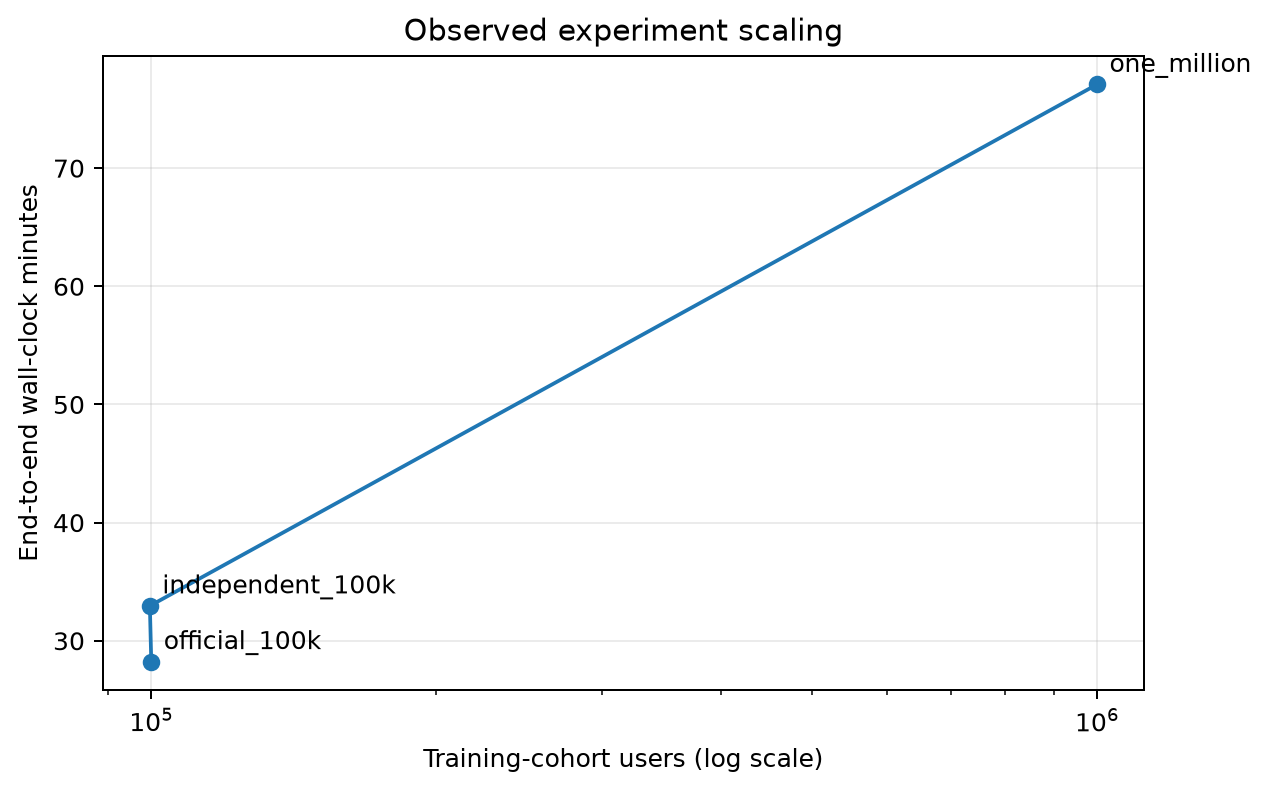
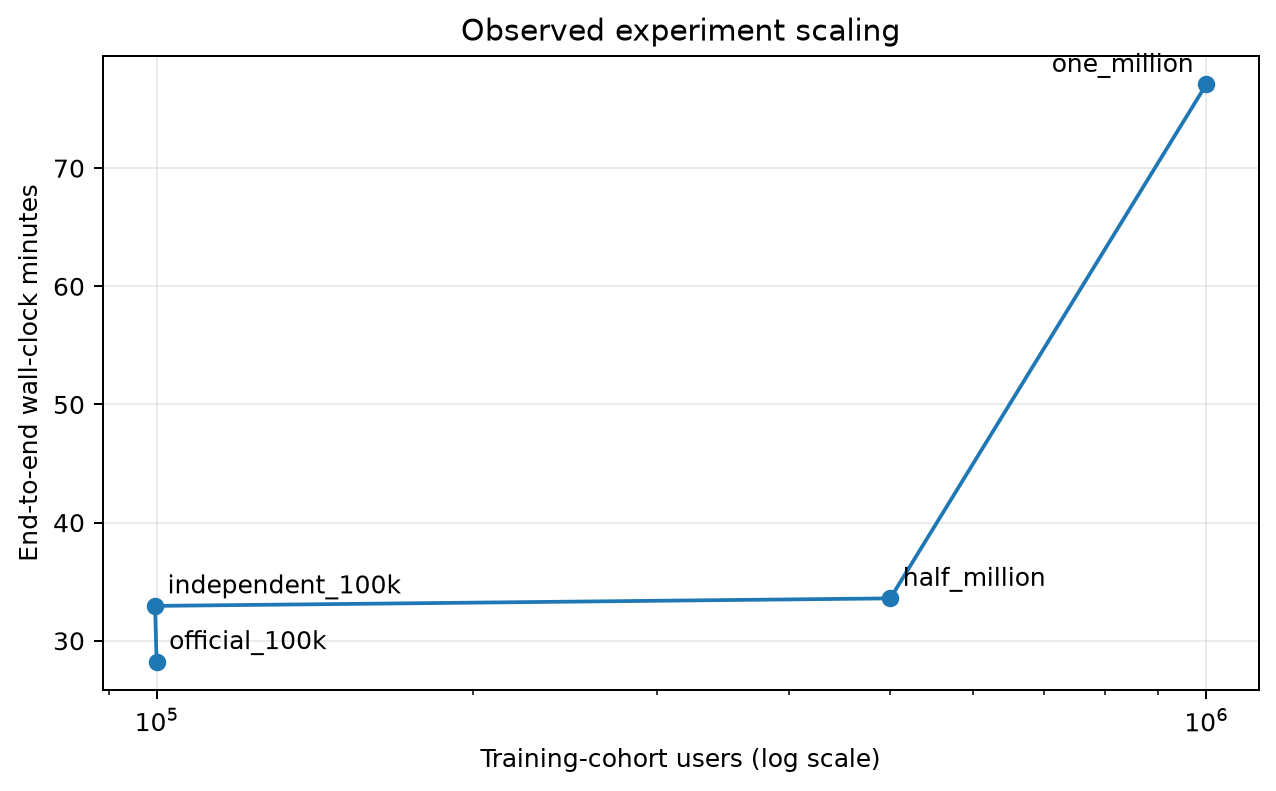
Add 500k scalability experiment

diff --git a/src/twitch_recs/assignment_analysis.py b/src/twitch_recs/assignment_analysis.py
@@ -481,6 +481,12 @@ def run_validation_sample_stability(frame: pd.DataFrame, config: dict,
 def _log_runtime_minutes(path: Path) -> float | None:
     if not path.exists():
         return None
+    for line in reversed(path.read_text(errors="replace").splitlines()):
+        if line.startswith("real "):
+            try:
+                return float(line.split()[1]) / 60
+            except (IndexError, ValueError):
+                break
     try:
         values = subprocess.check_output(
             ["stat", "-c", "%W %Y", str(path)], text=True
@@ -497,6 +503,8 @@ def scaling_table(root: Path, assignment_output: Path) -> pd.DataFrame:
          root / "outputs/logs/full_run.log"),
         ("independent_100k", root / "outputs_full/dataset_summary.json",
          root / "outputs_full/logs/full_cohort_run.log"),
+        ("half_million", root / "outputs_500k/dataset_summary.json",
+         root / "outputs_500k/run.log"),
         ("one_million", root / "outputs_million/dataset_summary.json",
          root / "outputs_million/run.log"),
     ]
@@ -509,7 +517,12 @@ def scaling_table(root: Path, assignment_output: Path) -> pd.DataFrame:
             "interactions": int(summary["interactions"]),
             "channels": int(summary["channels"]),
             "wall_clock_minutes": _log_runtime_minutes(log_path),
-            "runtime_source": "filesystem birth-to-final-write interval of run log",
+            "runtime_source": (
+                "GNU time real seconds recorded in run log"
+                if any(line.startswith("real ") for line in
+                       log_path.read_text(errors="replace").splitlines())
+                else "filesystem birth-to-final-write interval of run log"
+            ),
         })
     result = pd.DataFrame(rows)
     result.to_csv(assignment_output / "tables" / "scaling.csv", index=False)
@@ -592,14 +605,55 @@ def create_assignment_figures(primary_output: Path, assignment_output: Path,
     plt.figure(figsize=(7.2, 4.5))
     plt.plot(scaling["users"], scaling["wall_clock_minutes"], marker="o")
     for row in scaling.itertuples():
+        rightmost = row.users == scaling["users"].max()
         plt.annotate(row.experiment, (row.users, row.wall_clock_minutes),
-                     xytext=(5, 5), textcoords="offset points")
+                     xytext=(-5 if rightmost else 5, 5), textcoords="offset points",
+                     ha="right" if rightmost else "left")
     plt.xscale("log")
     plt.xlabel("Training-cohort users (log scale)")
     plt.ylabel("End-to-end wall-clock minutes")
     plt.title("Observed experiment scaling")
     plt.grid(alpha=0.25)
     _save_figure(figure_dir / "scaling.png")
+
+    root = assignment_output.parent.parent
+    scale_runs = [
+        ("100k", 99_660, root / "outputs_full/tables/test_results.csv"),
+        ("500k", 500_000, root / "outputs_500k/tables/test_results.csv"),
+        ("1m", 1_000_000, root / "outputs_million/tables/test_results.csv"),
+    ]
+    model_names = {
+        "hybrid_a0.75": "Hybrid",
+        "item_knn": "ItemKNN",
+        "bpr": "BPR",
+        "recent_popularity": "Recent popularity",
+        "popularity": "Popularity",
+    }
+    accuracy_rows = []
+    for scale_label, users, result_path in scale_runs:
+        frame = pd.read_csv(result_path)
+        for model, display_name in model_names.items():
+            value = frame.loc[frame["model"] == model, "ndcg_at_10"]
+            accuracy_rows.append({
+                "scale": scale_label,
+                "users": users,
+                "model": display_name,
+                "ndcg_at_10": float(value.iloc[0]),
+            })
+    accuracy = pd.DataFrame(accuracy_rows)
+    accuracy.to_csv(assignment_output / "tables" / "scalability_ndcg.csv", index=False)
+    plt.figure(figsize=(7.6, 4.8))
+    for model, group in accuracy.groupby("model", sort=False):
+        group = group.sort_values("users")
+        plt.plot(group["users"], group["ndcg_at_10"], marker="o", label=model)
+    plt.xscale("log")
+    plt.xticks([100_000, 500_000, 1_000_000], ["100k", "500k", "1m"])
+    plt.xlabel("Training-cohort users (log scale)")
+    plt.ylabel("Test NDCG@10")
+    plt.title("Model ranking remains stable across three cohort scales")
+    plt.legend(bbox_to_anchor=(1.02, 1), loc="upper left")
+    plt.grid(alpha=0.25)
+    _save_figure(figure_dir / "scalability_ndcg.png")
 
     period_path = assignment_output / "tables" / "period_level_results.csv"
     if period_path.exists():

diff --git a/reports/MILLION_USER_COMPARISON.md b/reports/MILLION_USER_COMPARISON.md
@@ -1,25 +1,27 @@
-# 100k vs. One-Million-User Experiment
+# 100k vs. 500k vs. One-Million-User Experiment
 
-| Model | 100k Recall@10 | 1m Recall@10 | 100k NDCG@10 | 1m NDCG@10 |
-|---|---:|---:|---:|---:|
-| Hybrid alpha=0.75 | 0.224644 | 0.221204 | 0.132178 | 0.131703 |
-| ItemKNN | 0.215126 | 0.218741 | 0.126534 | 0.130398 |
-| BPR | 0.093488 | 0.081065 | 0.053731 | 0.043017 |
-| Recent popularity | 0.061265 | 0.056563 | 0.037562 | 0.035291 |
-| Popularity | 0.060668 | 0.057247 | 0.037277 | 0.035717 |
+| Model | 100k Recall@10 | 500k Recall@10 | 1m Recall@10 | 100k NDCG@10 | 500k NDCG@10 | 1m NDCG@10 |
+|---|---:|---:|---:|---:|---:|---:|
+| Hybrid alpha=0.75 | 0.224644 | 0.221675 | 0.221204 | 0.132178 | 0.128898 | 0.131703 |
+| ItemKNN | 0.215126 | 0.217265 | 0.218741 | 0.126534 | 0.126900 | 0.130398 |
+| BPR | 0.093488 | 0.080066 | 0.081065 | 0.053731 | 0.041878 | 0.043017 |
+| Recent popularity | 0.061265 | 0.056566 | 0.056563 | 0.037562 | 0.034819 | 0.035291 |
+| Popularity | 0.060668 | 0.056558 | 0.057247 | 0.037277 | 0.034773 | 0.035717 |
 
-The one-million-user cohort contains exactly 1,000,000 users and 30,585,070
-interactions. It uses every selected user for training, with a fixed-seed evaluation
-sample of 1,931 validation and 4,895 test users after eligibility filtering.
+The 500k cohort contains 15,271,133 interactions and 355,257 channels; its fixed-seed
+evaluation contains 1,904 validation and 4,870 test users after eligibility filtering.
+Its full model run completed in 33.59 wall-clock minutes. The one-million-user cohort
+contains 30,585,070 interactions and uses 1,931 validation and 4,895 test users.
 
-The ranking is unchanged: Hybrid > ItemKNN > BPR > popularity baselines. Hybrid
-NDCG is nearly unchanged (-0.36% relative), and ItemKNN improves by 3.05% relative.
-BPR declines by 19.94% relative on the sampled test set.
+The ranking is unchanged at all three scales: Hybrid > ItemKNN > BPR > popularity
+baselines. Hybrid NDCG stays within 0.1289--0.1322, while ItemKNN rises slightly by
+1m. BPR is lower at both larger scales. The 500k validation search selects 32 factors;
+the 100k and 1m searches select 64, so hyperparameters are not assumed constant.
 
-This is a robustness comparison, not a controlled learning curve. The 100k results
-use all 52,794 eligible test users from a different cohort; the one-million results
-use a deterministic sample. Cohort, candidate-catalog, and evaluation-sample changes
-are therefore confounded with training size.
+This is scalability and robustness evidence, not a controlled learning curve. The
+100k results use all 52,794 eligible test users from a different cohort; the 500k and
+one-million results use deterministic samples. Cohort, candidate catalog, and
+evaluation sample therefore change together with training size.
 
 See `MILLION_USER_REPORT.md` for the full protocol, diversity metrics, candidate
 coverage, limitations, and reproducibility commands.

diff --git a/reports/ASSIGNMENT_EXPERIMENTS.md b/reports/ASSIGNMENT_EXPERIMENTS.md
@@ -184,12 +184,16 @@ catalog.
 |---|---:|---:|---:|---:|
 | Official 100k | 100,000 | 3,051,733 | 162,625 | 28.23 |
 | Independent approximately-100k | 99,660 | 3,034,146 | 161,021 | 32.95 |
+| Half million | 500,000 | 15,271,133 | 355,257 | 33.59 |
 | One million | 1,000,000 | 30,585,070 | 464,657 | 77.08 |
 
-Times are filesystem birth-to-final-write intervals for the saved run logs, not a
-controlled hardware benchmark. The one-million run uses capped validation/test ranking
-samples, whereas the 100k runs evaluate all eligible test users, so runtime ratios must
-not be interpreted as an algorithmic scaling exponent.
+The 500k time is GNU `time` wall-clock output; the existing runs use filesystem
+birth-to-final-write intervals for their saved run logs. These are observed completion
+times, not a controlled hardware benchmark. The 500k and one-million runs use capped
+validation/test ranking samples, whereas the 100k runs evaluate all eligible test
+users, so runtime ratios must not be interpreted as an algorithmic scaling exponent.
+The three completed scale points demonstrate that the disk-backed pipeline executes at
+500k and 1m users; they do not estimate a causal learning curve.
 
 ## Reproducibility and artifacts
 

diff --git a/README.md b/README.md
@@ -63,6 +63,8 @@ For the complete-file scalability experiments, first place the source file at
 experiment are reproduced with:
 
 ```bash
+twitch-recs extract-million --config configs/half_million.yaml
+twitch-recs run-million --config configs/half_million.yaml
 twitch-recs extract-million --config configs/million.yaml
 twitch-recs run-million --config configs/million.yaml
 ```
